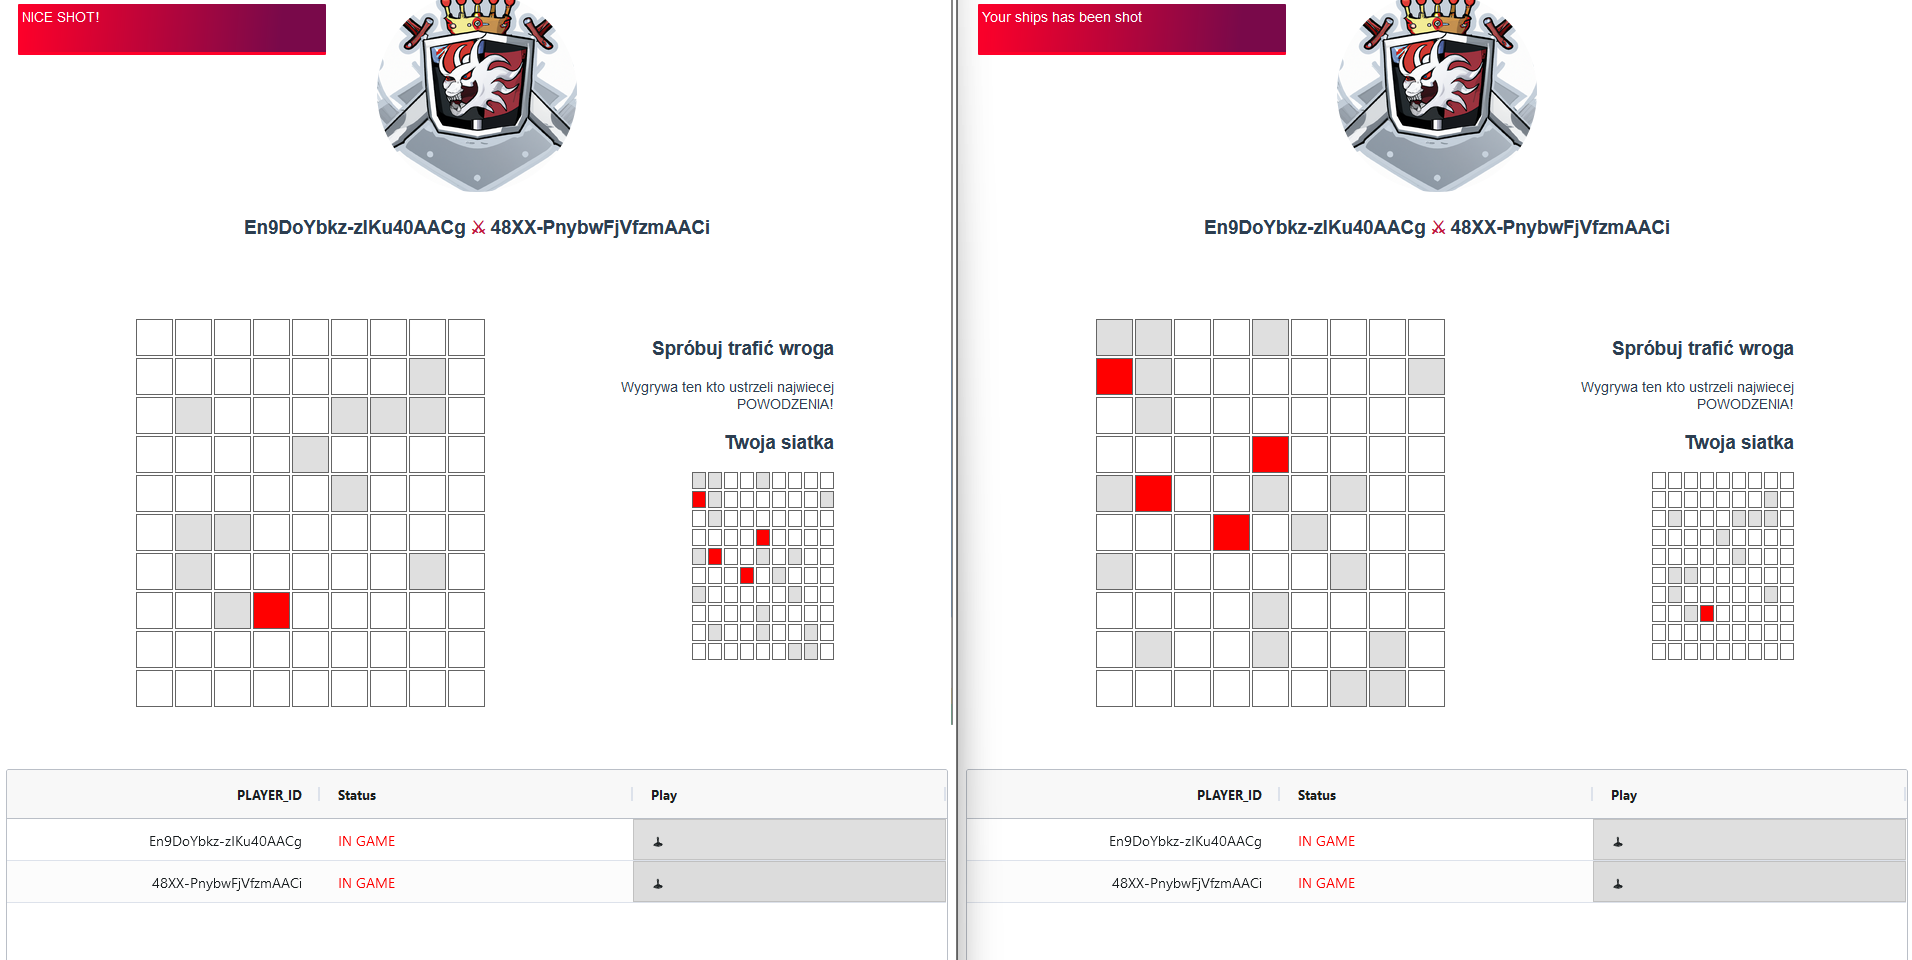
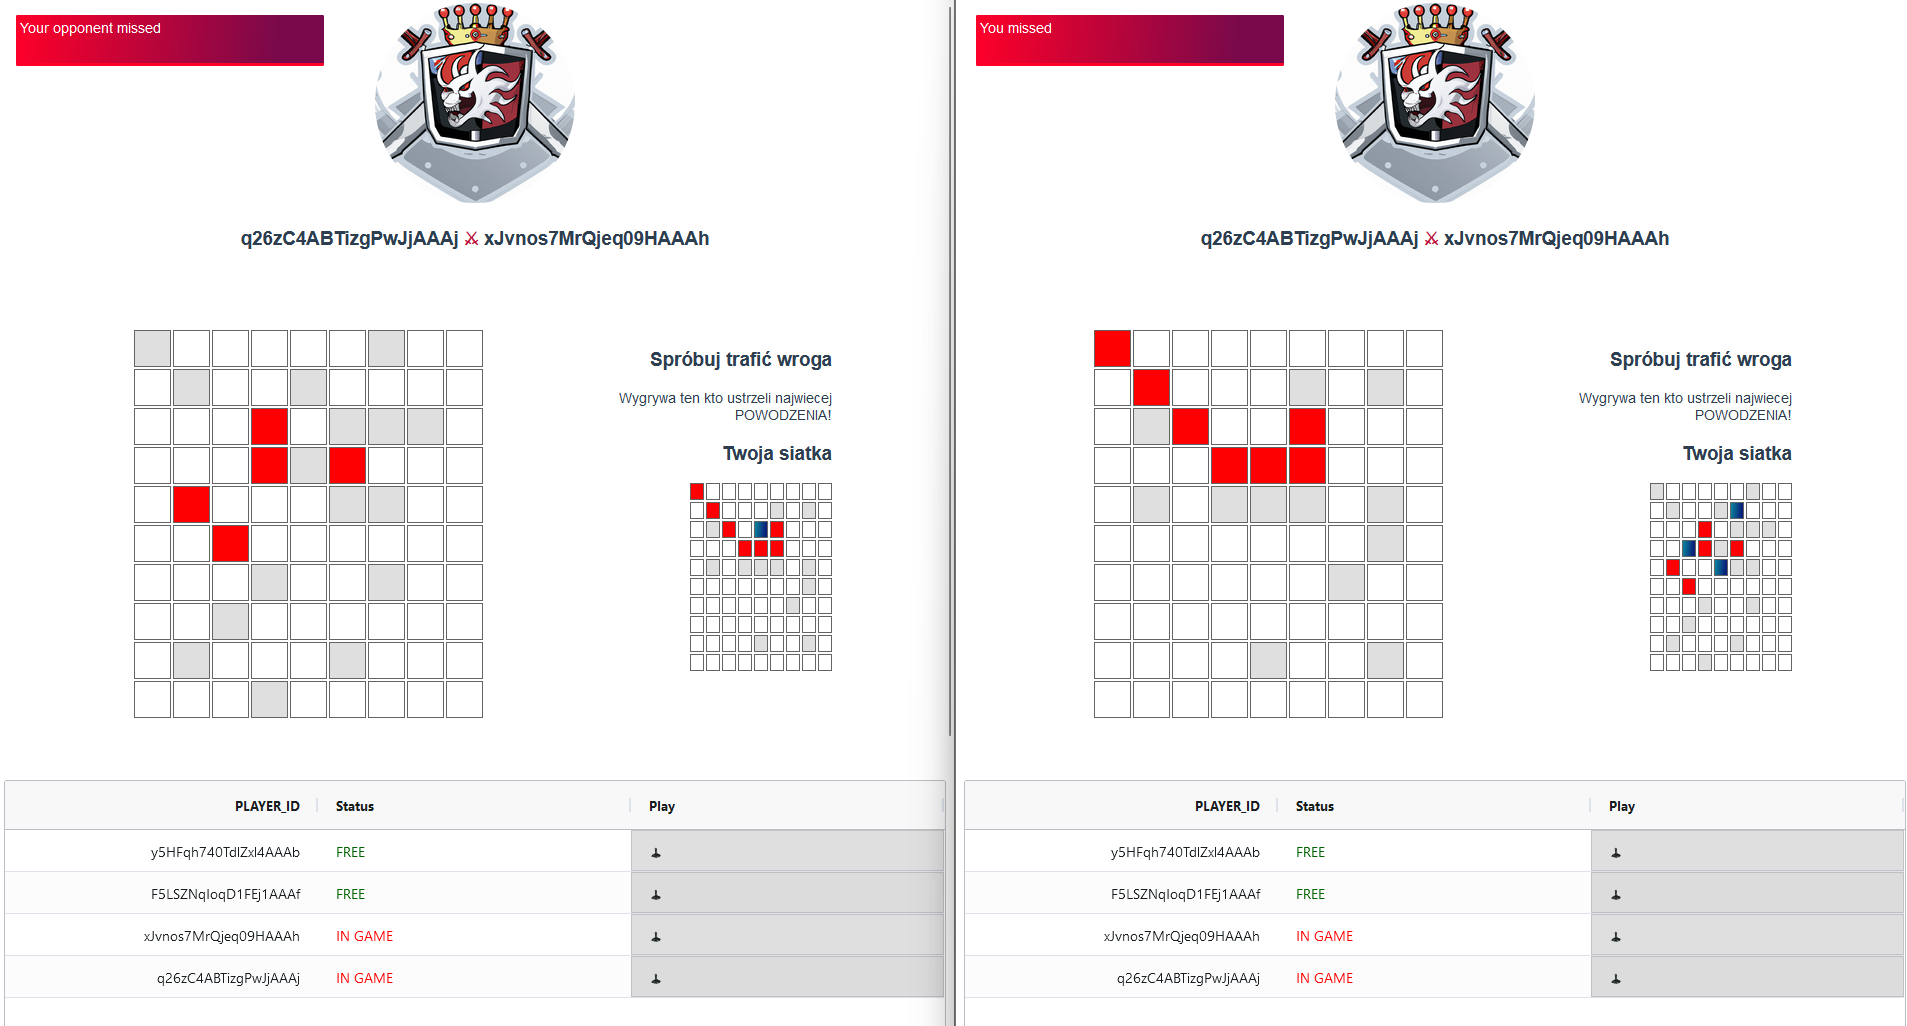
upd

diff --git a/src/views/GameRoom.vue b/src/views/GameRoom.vue
@@ -48,6 +48,7 @@ export default{
         this.mode = 'play'
         this.opponentReady = false;
         this.selected.forEach(s=>s.classList.remove('black'))
+        console.log('selected', this.selected)
       })
       this.socket.on('miss', params=>{
         console.log('miss', params)
@@ -215,7 +216,7 @@ export default{
             <div v-for="field in this.board.fields.z"
                  :key="field"
                  class="field"
-                 style="width:12px; height:15px;"
+                 :style="`width:12px; height:15px; ${this.selected.find(s=>s.id === field) ? 'background:linear-gradient(275deg, rgba(9,33,121,1) 15%, rgba(12,136,158,1) 100%);' :'' }`"
                  :id="`owned-${field}`"
             ></div>
           </main>
